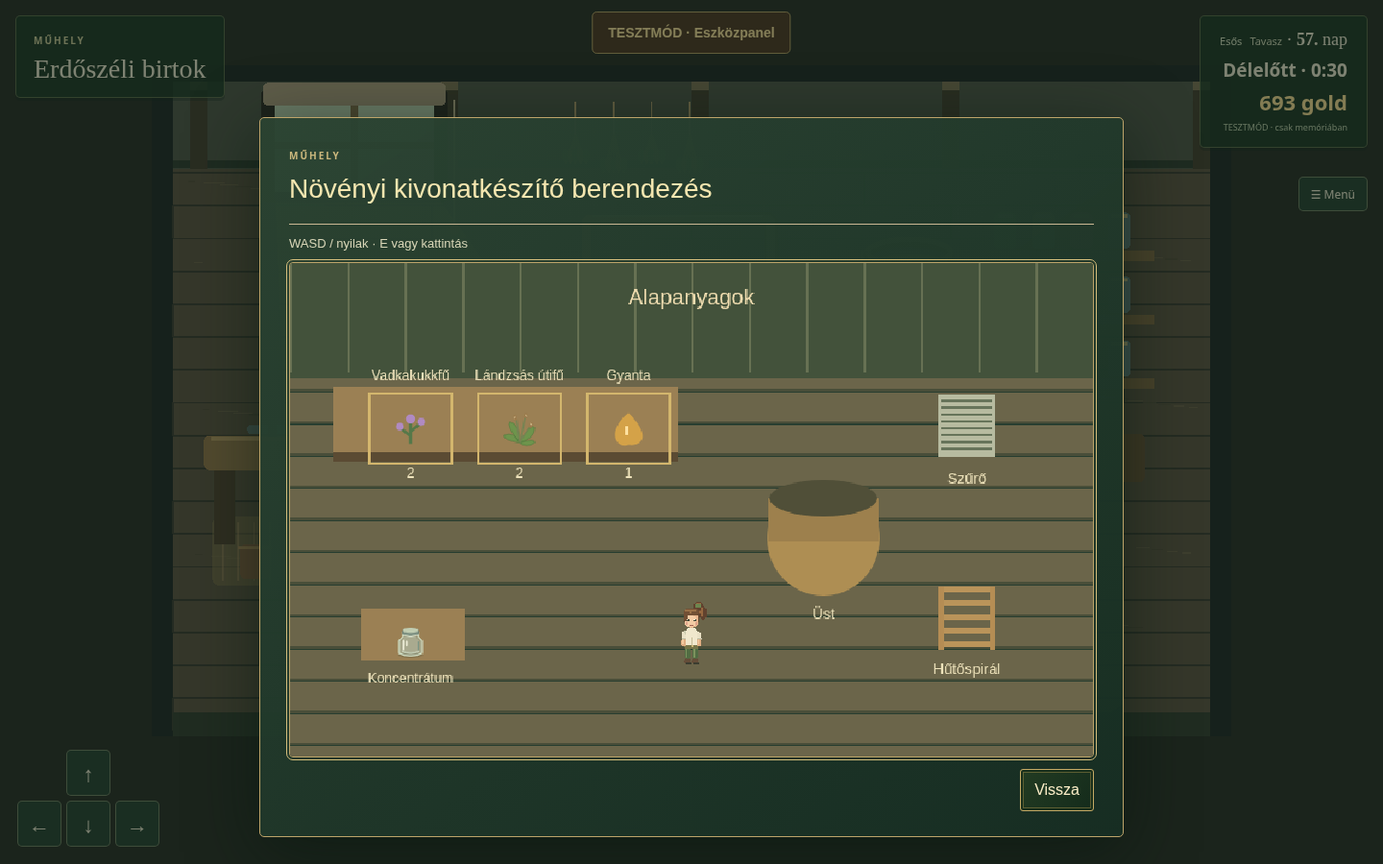
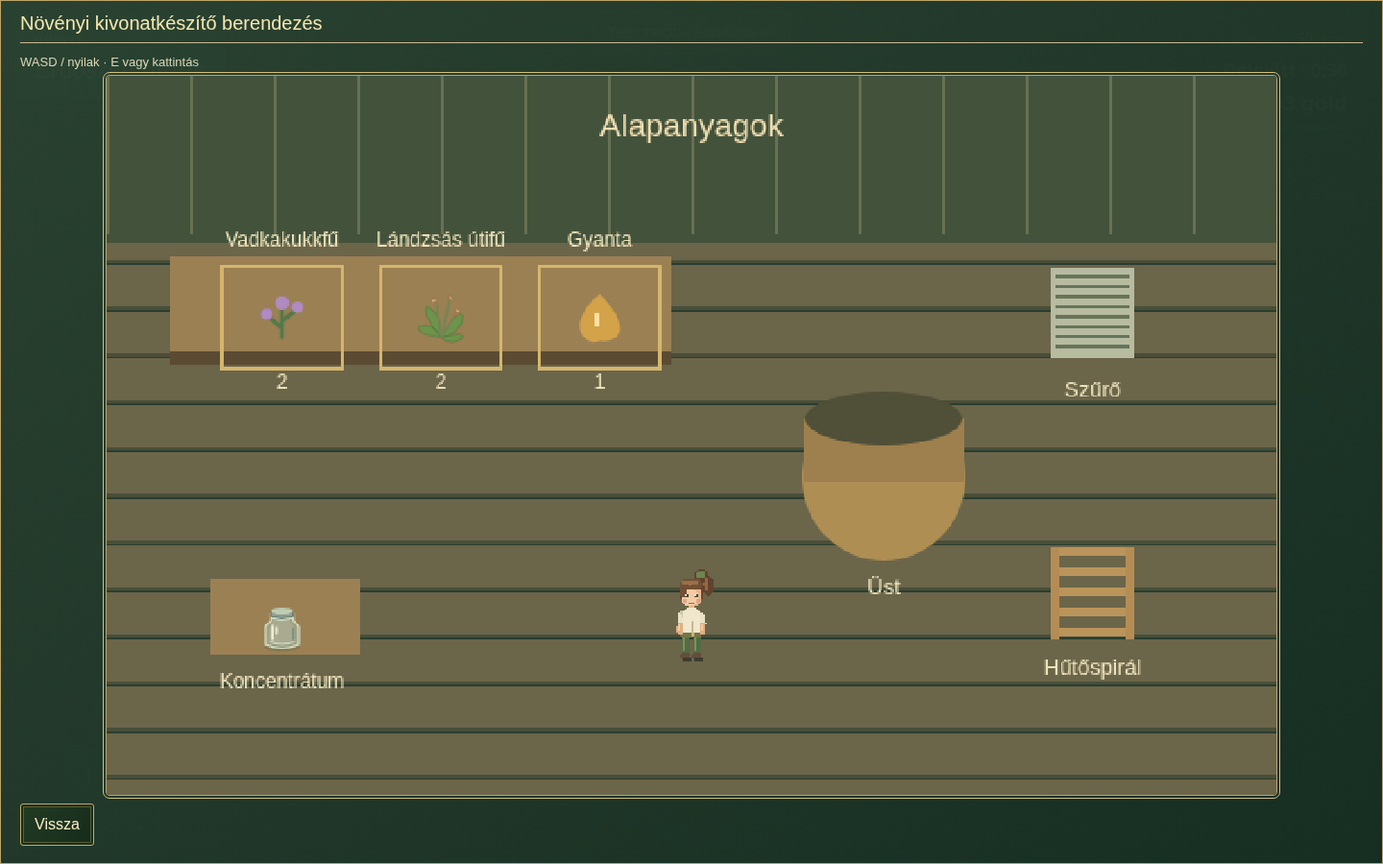
Refine Noah forest encounters, food feedback and extraction presentation

diff --git a/src/main.ts b/src/main.ts
@@ -19,7 +19,7 @@ import {drawCrafting,drawIrrigationArcs,drawMachineActivity,machineActivityPanel
 import {junkSites,junkPoint,junkProgress,junkWorkPoint,junkTool,junkAt,junkBlocks,strikeJunk,prepareJunkSites,type JunkId} from './junk-sites';
 import {drawJunkSites,updateJunkIndicators} from './junk-art';
 import {natureSites,natureReady} from './nature-resources';
-import {consumeBerry} from './food';
+import {consumeBerry,berryFoods,type BerryFood} from './food';
 import {storyEndPending} from './travel';
 import {MicroscopePanel} from './microscope-panel';
 import {createMicroscopy,type SampleId} from './microscopy';
@@ -592,7 +592,7 @@ class Farm extends Phaser.Scene {
  }
  private hurtNoah(){
   const f=this.travel.forest!;f.health=(f.health??5)-1;this.cameras.main.shake(110,.003);
-  if(f.health<=0){f.health=5;this.noahTest?.forest.reset();this.actor.setPosition(START.x,START.y);this.fitCamera();showDialogue('Itthon biztonságban','Az erdei kaland most túl sok volt. Minden holmim és aranyam megmaradt.','SAM');return false;}return true;
+  if(f.health<=0){f.health=5;this.noahTest?.forest.reset();this.actor.setPosition(START.x,START.y);this.fitCamera();showDialogue('Itthon biztonságban','Az erdei kaland most túl sok volt. Minden holmim és aranyam megmaradt.\n\nTalán legközelebb vihetnék magammal némi élelmet…','SAM');return false;}return true;
  }
  private sinkNoah(point:{x:number;y:number}){
   if(this.transitioning)return;this.transitioning=true;document.querySelector<HTMLElement>('#game')!.dataset.noahSinking='true';this.avatar.cancelWork();this.jumpRemaining=0;release();
@@ -606,10 +606,10 @@ class Farm extends Phaser.Scene {
   if(inside&&f.stick&&!this.forestEquipped&&!this.avatar.isWorking()){this.selectTool('stick');this.forestEquipped=true;}else if(!inside&&this.forestEquipped){this.avatar.equip(this.tool==='wildflower'?'radish':this.tool);this.forestEquipped=false;}
   const hud=document.querySelector<HTMLElement>('#forest-health')!;hud.hidden=!inside||dialogue.open;if(inside){const label=`${'♥'.repeat(this.forestCombat.health)}${'♡'.repeat(5-this.forestCombat.health)}`;if(hud.textContent!==label)hud.textContent=label;hud.setAttribute('aria-label',`${this.forestCombat.health} / 5 életerő`);}
   if(inside&&f.stick&&!f.sample&&!f.enemyIntroSeen&&this.actor.x< -560&&performance.now()>this.forestIntroRetryAt&&this.canInteract()){this.forestIntroRetryAt=performance.now()+5000;const next=structuredClone(f);next.enemyIntroSeen=true;void this.commitForest(next,()=>this.showForestEnemies());return;}
-  this.forestCombat.update(dt,this.actor,f,this.jumpRemaining>0,()=>{f.health=Math.max(1,this.forestCombat!.health);this.cameras.main.shake(110,.002);if(this.forestCombat!.health<=0&&!this.forestSaving){const next=this.currentSnapshot();next.player={...START};next.travel.forest!.health=5;void this.commitChest(next,()=>{this.actor.setPosition(START.x,START.y);this.forestCombat!.reset();this.fitCamera();showDialogue('Itthon biztonságban','Az erdei kaland most túl sok volt. Sikerült hazavergődnöm; minden holmim és aranyam megmaradt.','SAM');});}});
+  this.forestCombat.update(dt,this.actor,f,this.jumpRemaining>0,()=>{f.health=Math.max(1,this.forestCombat!.health);this.cameras.main.shake(110,.002);if(this.forestCombat!.health<=0&&!this.forestSaving){const next=this.currentSnapshot();next.player={...START};next.travel.forest!.health=5;void this.commitChest(next,()=>{this.actor.setPosition(START.x,START.y);this.forestCombat!.reset();this.fitCamera();showDialogue('Itthon biztonságban','Az erdei kaland most túl sok volt. Sikerült hazavergődnöm; minden holmim és aranyam megmaradt.\n\nTalán legközelebb vihetnék magammal némi élelmet…','SAM');});}});
   const game=document.querySelector<HTMLElement>('#game')!;game.dataset.forestHealth=String(this.forestCombat.health);game.dataset.forestDefeated=String(encounterDefeated(f).length);game.dataset.forestSample=String(f.sample);game.dataset.forestExamined=String(f.examined);game.dataset.forestSent=String(f.sent);
  }
- private async eatBerry(crop:'strawberry'|'honeyberry'|'blueberry'){
+ private async eatBerry(crop:BerryFood){
   if(this.transitioning||performance.now()<this.eatingUntil||this.garden.produce[crop]<1)return;
   const health=this.travel.forest?.health??5;if(health>=5)return;
   const next=consumeBerry(this.currentSnapshot(),crop);if(!next)return;
@@ -738,7 +738,7 @@ class Farm extends Phaser.Scene {
   summary.replaceChildren();const capacity=document.createElement('strong');capacity.textContent=`${Math.max(0,16-used)} szabad rekesz`;const occupied=document.createElement('span');occupied.textContent=`${used} / 16 foglalt`;summary.append(capacity,occupied);grid.replaceChildren();free.replaceChildren();document.querySelector('#inventory-extra-actions')!.replaceChildren();
   const addAction=(card:HTMLElement,label:string,action:()=>void)=>{const button=document.createElement('button');button.type='button';button.textContent=label;button.onclick=action;card.append(button);return button;};
   for(const {key,count}of stacks){const [group,id]=key.split(':'),card=document.createElement('div');card.className='inventory-card backpack-slot';card.dataset.stackKey=key;const label=document.createElement('span');label.className='backpack-item-name';label.textContent=group==='packed'?'Tárolóláda':this.chestItemName(key);const amount=document.createElement('strong');amount.className='stack-count';amount.textContent=String(count);card.append(group==='packed'?itemIcon('chest'):this.chestItemIcon(key),label,amount);
-   if(group==='crop'){card.dataset.inventoryCrop=id;if((this.travel.forest?.health??5)<5&&['strawberry','honeyberry','blueberry'].includes(id)){const eat=addAction(card,'Eszem',()=>void this.eatBerry(id as 'strawberry'|'honeyberry'|'blueberry'));eat.dataset.eat=id;}}
+   if(group==='crop'){card.dataset.inventoryCrop=id;if((this.travel.forest?.health??5)<5&&(berryFoods as readonly string[]).includes(id)){const eat=addAction(card,'Eszem',()=>void this.eatBerry(id as BerryFood));eat.dataset.eat=id;}}
    if(group==='seed'){card.dataset.inventorySeed=id;card.tabIndex=0;card.setAttribute('role','button');card.setAttribute('aria-label',`${label.textContent} kézbevétele`);const select=()=>{dialogue.close();this.selectTool(id as Tool);};card.onclick=select;card.onkeydown=e=>{if(e.key==='Enter'||e.code==='Space'){e.preventDefault();e.stopPropagation();select();}};}
 
    if(group==='good'&&id==='reed')addAction(card,'Levágom',()=>{const next=cutCarriedReed(this.currentSnapshot());if(next)void this.commitChest(next,()=>this.openInventory());});
@@ -776,9 +776,8 @@ class Farm extends Phaser.Scene {
  }
  private drawMailFlag(){
   if(!this.mailFlag)return;this.mailFlag.clear();const m=farmLayout.mailbox;
-  if(quantityTotal(this.orders.mailbox)>0){this.mailFlag.fillStyle(0xe7b55a);this.mailFlag.fillRect(m.x+m.w-3,m.y-10,3,13);this.mailFlag.fillRect(m.x+m.w,m.y-10,8,5);}
   const unread=Boolean(this.noahTest?.hasUnreadLetter(this.clock.day));document.querySelector<HTMLElement>('#game')!.dataset.noahUnreadMail=String(unread);
-  if(unread){const g=this.mailFlag,x=m.x+m.w/2,y=m.y-29;g.lineStyle(2,0xf5d689,.45+.15*Math.sin(this.time.now/400)).strokeCircle(x,y,17);g.fillStyle(0xf4e8c4).fillRoundedRect(x-12,y-8,24,16,2);g.lineStyle(1.5,0x846e49).strokePoints([{x:x-11,y:y-7},{x,y:y+1},{x:x+11,y:y-7}]);g.fillStyle(0xa66b54).fillCircle(x,y+2,2.5);}
+  if(quantityTotal(this.orders.mailbox)>0||unread){this.mailFlag.fillStyle(0xe7b55a);this.mailFlag.fillRect(m.x+m.w-3,m.y-10,3,13);this.mailFlag.fillRect(m.x+m.w,m.y-10,8,5);}
  }
  private nearObject(area:{x:number;y:number;w:number;h:number},distance=55){return Math.hypot(this.actor.x-area.x-area.w/2,this.actor.y-area.y-area.h/2)<=distance;}
  private async gatherForage(id:string){
@@ -1204,7 +1203,7 @@ class Farm extends Phaser.Scene {
   const noahSection=document.createElement('section');noahSection.className='noah-test-picker';
   const noahTitle=document.createElement('h3');noahTitle.textContent='Noah küldeménye – erdei kísérlet';
   const checkpoint=document.createElement('select');checkpoint.id='noah-test-checkpoint';checkpoint.setAttribute('aria-label','A teszt kezdőpontja');
-  for(const [value,label]of [['letter','Teljes folyamat · Noah válaszának napja'],['waiting','Indítás a minta elküldése után'],['simon','Indítás Simonnál'],['forest','Indítás a patakhídnál'],['marsh','Indítás a mocsári átkelőnél'],['mix','Indítás a kivonatkészítés előtt']])checkpoint.add(new Option(label,value));
+  for(const [value,label]of [['letter','Teljes folyamat · Noah válaszának napja'],['waiting','Indítás a minta elküldése után'],['simon','Indítás Simonnál'],['forest','Indítás a patakhídnál'],['marsh','Indítás a mocsári átkelőnél'],['root','Indítás a gyökércsomónál · este'],['mix','Indítás a kivonatkészítés előtt']])checkpoint.add(new Option(label,value));
   const start=document.createElement('button');start.type='button';start.id='start-noah-test';start.textContent='Teszt indítása';start.onclick=()=>{start.disabled=true;void this.startNoahTest(checkpoint.value as NoahCheckpoint,noahTestConfig).finally(()=>{start.disabled=false;});};
   noahSection.append(noahTitle,checkpoint,start);panel.append(noahSection);
   if(this.noahTest){const nextMorning=document.createElement('button');nextMorning.type='button';nextMorning.id='noah-next-morning';nextMorning.textContent='Következő reggel';nextMorning.onclick=()=>{if(this.transitioning)return;dialogue.close();void this.finishDay(false);};panel.append(nextMorning);}
@@ -1553,7 +1552,7 @@ class Farm extends Phaser.Scene {
   const before={x:this.actor.x,y:this.actor.y};const rocks=activeDebris(this.clearing,this.garden).filter(d=>d.kind==='rock');
   const rockBlocked=(x:number,y:number)=>rocks.some(r=>{const radiusX=r.scale*17+6,radiusY=r.scale*12+3;const old=((before.x-r.x)/radiusX)**2+((before.y-r.y)/radiusY)**2,now=((x-r.x)/radiusX)**2+((y-r.y)/radiusY)**2;return now<1&&(old>=1||now<=old);});
   this.updateForest(Math.min(seconds,.05));
-  if(this.noahTest){const t=this.noahTest;t.forest.update(Math.min(seconds,.05),this.actor,t.state,this.jumpRemaining>0,()=>{this.hurtNoah();},point=>this.sinkNoah(point),this.clock.day);if(inNoahSouth(this.actor.x,this.actor.y)){this.avatar.equip('stick');const health=this.travel.forest?.health??5;const hud=document.querySelector<HTMLElement>('#forest-health')!;hud.hidden=false;hud.textContent='♥'.repeat(health)+'♡'.repeat(5-health);}}
+  if(this.noahTest){const t=this.noahTest;t.forest.update(Math.min(seconds,.05),this.actor,t.state,this.jumpRemaining>0,()=>{this.hurtNoah();},point=>this.sinkNoah(point),this.clock.day,nightOpacity(this.clock));if(inNoahSouth(this.actor.x,this.actor.y)){this.avatar.equip('stick');const health=this.travel.forest?.health??5;const hud=document.querySelector<HTMLElement>('#forest-health')!;hud.hidden=false;hud.textContent='♥'.repeat(health)+'♡'.repeat(5-health);}}
   if(this.transitioning||this.actor.x!==before.x||this.actor.y!==before.y)return;
   const next=move(before.x,before.y,dx,dy,seconds,movementSpeed(this.jumpRemaining>0,movementInput.running),(x,y)=>(!this.noahTest?.state.upgraded&&closedSouthEntry(x,y,before))||this.skill.chests?.placed.some(c=>{const d=((x-c.x)/23)**2+((y-c.y)/15)**2,old=((before.x-c.x)/23)**2+((before.y-c.y)/15)**2;return d<1&&(old>=1||d<=old);})||this.forestCombat?.blocks(x,y,this.travel.forest??createForest())||(!junkBlocks(this.clearing,before.x,before.y)&&junkBlocks(this.clearing,x,y))||this.travel.crafting?.machines.some(m=>Math.hypot(m.x-x,m.y-y)<11&&Math.hypot(m.x-before.x,m.y-before.y)>=11)||rockBlocked(x,y)||this.travel.estate.trees.some(t=>Math.hypot(x-t.x,y-t.y)<12)||this.travel.estate.pond.some(p=>p.kind==='duckNest'&&Math.hypot(x-p.x,y-p.y)<12),(x,y)=>this.noahTest?(southBlocked(x,y,this.noahTest.state)??worldBlocked(x,y)):worldBlocked(x,y));this.actor.setPosition(next.x,next.y);
   surface.dataset.cleared=String(Object.keys(this.clearing.removed).length);surface.dataset.wood=String(this.clearing.wood);surface.dataset.stone=String(this.clearing.stone);surface.dataset.running=String(movementInput.running);surface.dataset.jumpHeight=String(height);
@@ -1595,7 +1594,7 @@ class Farm extends Phaser.Scene {
   if(!this.nearby&&this.actor.y<600){const site=junkSites.filter(s=>{const p=junkPoint(this.clearing,s.id);return Math.hypot(p.x-this.actor.x,p.y-this.actor.y)<105;}).sort((a,b)=>{const aa=junkPoint(this.clearing,a.id),bb=junkPoint(this.clearing,b.id);return Math.hypot(aa.x-this.actor.x,aa.y-this.actor.y)-Math.hypot(bb.x-this.actor.x,bb.y-this.actor.y);})[0];if(site)this.nearby=`junk:${site.id}`;}
   this.nearby=this.forestNearby()|| (this.nearChest()>=0?'storage-chest':this.researchNearby()||this.nearby);
   this.bubble.setPosition(next.x,next.y-54).setText(estateReady?'…':this.nearby==='shed'?'?':this.nearby?'…':'').setVisible(Boolean(this.nearby||estateReady)&&!this.nearby.startsWith('junk:')&&this.jumpRemaining<=0);
-  document.querySelector('#status')!.textContent=(inForest(next.x,next.y)?this.forestCombat?.encounterName(this.actor,this.travel.forest??createForest()):'')||this.researchHint()|| (this.nearby==='village-notice'?'Hirdetőtábla · E / kattintás':this.nearby==='craft-machine'?`${blueprintNames[this.travel.crafting!.machines[this.nearMachine()].kind as Blueprint]??'Nádkosár'} · E`:estateReady?'Begyűjthető · E / F / Gyűjtés':this.nearby.startsWith('nature:')?'Gyűjtögetés · E / F':this.nearby.startsWith('junk:')?`${junkSites.find(s=>s.id===this.nearby.slice(5))?.name} · ${Math.min(3,junkProgress(this.clearing,this.nearby.slice(5) as JunkId,this.clock.day).part)+1} / 4 · Bontás: E / kattintás`:this.nearby==='leaveShop'?'Vissza a térre · E / koppintás':this.nearby==='merchant'?`${insideShop==='nursery'?'Leo':insideShop==='craftShop'?'Simon':'Annie'} · Beszélgetés · E / koppintás`:this.nearby==='shopCounter'?'Pult · E / koppintás':nearbyBush?(forageReady(this.travel,nearbyBush.id,this.clock.day)?'Erdei áfonya · E / F / koppintás':'Áfonyabokor · most pihen'):this.nearby==='nursery'||this.nearby==='fishShop'||this.nearby==='craftShop'?`${shopNames[this.nearby]} · ${shopsOpen(this.clock.elapsed)?'E / koppintás':'Zárva · reggel nyit'}`:this.nearby==='bench'?'Pihenőpad · E / koppintás':this.nearby==='neighbor'?'Szomszéd · E / kattintás':this.nearby==='shed'?'?':this.nearby==='catalog'?'Magkatalógus · E / kattintás':this.nearby==='mailbox'?`Postaláda${quantityTotal(this.orders.mailbox)>0?' · Csomag érkezett':''} · E / kattintás`:this.nearby==='shipping'?'Eladóláda · E / koppints a ládára':this.nearby==='home-exit'?'Vissza a verandára · E':this.nearby.startsWith('home:')?'Megvizsgálom · E':this.nearby==='journal'?'Napló · E':this.nearby==='house'?'Otthon · Belépés · E':this.nearby==='pond'?'Tópart · E / koppints a buborékra':'');
+  document.querySelector('#status')!.textContent=(inForest(next.x,next.y)?this.forestCombat?.encounterName(this.actor,this.travel.forest??createForest()):'')||this.researchHint()|| (this.nearby==='village-notice'?'Hirdetőtábla · E / kattintás':this.nearby==='craft-machine'?`${blueprintNames[this.travel.crafting!.machines[this.nearMachine()].kind as Blueprint]??'Nádkosár'} · E`:estateReady?'Begyűjthető · E / F / Gyűjtés':this.nearby.startsWith('nature:')?'Gyűjtögetés · E / F':this.nearby.startsWith('junk:')?`${junkSites.find(s=>s.id===this.nearby.slice(5))?.name} · ${Math.min(3,junkProgress(this.clearing,this.nearby.slice(5) as JunkId,this.clock.day).part)+1} / 4 · Bontás: E / kattintás`:this.nearby==='leaveShop'?'Vissza a térre · E / koppintás':this.nearby==='merchant'?`${insideShop==='nursery'?'Leo':insideShop==='craftShop'?'Simon':'Annie'} · Beszélgetés · E / koppintás`:this.nearby==='shopCounter'?'Pult · E / koppintás':nearbyBush?(forageReady(this.travel,nearbyBush.id,this.clock.day)?'Erdei áfonya · E / F / koppintás':'Áfonyabokor · most pihen'):this.nearby==='nursery'||this.nearby==='fishShop'||this.nearby==='craftShop'?`${shopNames[this.nearby]} · ${shopsOpen(this.clock.elapsed)?'E / koppintás':'Zárva · reggel nyit'}`:this.nearby==='bench'?'Pihenőpad · E / koppintás':this.nearby==='neighbor'?'Szomszéd · E / kattintás':this.nearby==='shed'?'?':this.nearby==='catalog'?'Magkatalógus · E / kattintás':this.nearby==='mailbox'?`Postaláda${quantityTotal(this.orders.mailbox)>0||this.noahTest?.hasUnreadLetter(this.clock.day)?' · Küldemény érkezett':''} · E / kattintás`:this.nearby==='shipping'?'Eladóláda · E / koppints a ládára':this.nearby==='home-exit'?'Vissza a verandára · E':this.nearby.startsWith('home:')?'Megvizsgálom · E':this.nearby==='journal'?'Napló · E':this.nearby==='house'?'Otthon · Belépés · E':this.nearby==='pond'?'Tópart · E / koppints a buborékra':'');
  }
 }
 new Phaser.Game({type:Phaser.AUTO,parent:'game',width:800,height:600,pixelArt:true,backgroundColor:'#8da85e',scene:Farm,scale:{mode:Phaser.Scale.RESIZE,autoCenter:Phaser.Scale.CENTER_BOTH},input:{keyboard:true}});

diff --git a/src/noah-south-forest.ts b/src/noah-south-forest.ts
@@ -4,6 +4,7 @@ import {createForest} from './forest';
 import {drawForestHerb} from './forest-art';
 import {southRoute,southPath,distanceToSouthPath,swampAt,swampStones,swampStep,southHerbs} from './south-forest-layout';
 import {drawWoodlandTree} from './woodland-tree';
+import {rootStrike,rootStrikePose,ROOT_STRIKE_COUNT,ROOT_STRIKE_INTERVAL,ROOT_STRIKE_DURATION} from './root-strikes';
 import type {NoahTestState} from './noah-test-story';
 export const resinTree={x:-805,y:2770};
 export const southRoot={x:-650,y:2500};
@@ -17,17 +18,19 @@ export function southBlocked(x:number,y:number,state:NoahTestState){
  if(y>2475&&!state.rootDefeated)return true;
  return distanceToSouthPath(x,y)>(swampAt(x,y)?165:94);
 }
+const southEnemies=[{id:'vine',kind:'vine' as const,x:-325,y:1490,hp:3},{id:'spore-a',kind:'spore' as const,x:-665,y:1680,hp:2},{id:'spore-b',kind:'spore' as const,x:-555,y:1850,hp:2},{id:'vine-bramble',kind:'vine' as const,x:-360,y:1950,hp:3},{id:'spore-c',kind:'spore' as const,x:-570,y:2385,hp:2},{id:'vine-larch',kind:'vine' as const,x:-750,y:2670,hp:3},{id:'spore-d',kind:'spore' as const,x:-830,y:2820,hp:2}];
+const mushrooms=[{x:-380,y:1450,s:1.1},{x:-590,y:1580,s:1.5},{x:-755,y:1790,s:1.3},{x:-570,y:1930,s:1.7},{x:-335,y:2220,s:1.2},{x:-620,y:2390,s:1.6},{x:-800,y:2580,s:1.8},{x:-725,y:2760,s:1.2}];
 export class NoahSouthForest{
- private terrain:Phaser.GameObjects.Graphics;private art:Phaser.GameObjects.Graphics;
+ private terrain:Phaser.GameObjects.Graphics;private art:Phaser.GameObjects.Graphics;private fungi:Phaser.GameObjects.Graphics;private swampSeen=false;private struck=new Set<number>();
  private lastSafe={x:-444,y:2000};private herbs:Phaser.GameObjects.Graphics;
  private label:Phaser.GameObjects.Text;private minorCombat:ForestCombat;private minorState={...createForest(),stick:true};
- get minorRemaining(){return 2-this.minorState.defeated.length;}
- setUnlocked(value:boolean){this.terrain.setVisible(value);this.art.setVisible(value);this.herbs.setVisible(value);}
+ get minorRemaining(){return southEnemies.length-this.minorState.defeated.length;}
+ setUnlocked(value:boolean){this.terrain.setVisible(value);this.art.setVisible(value);this.herbs.setVisible(value);this.fungi.setVisible(value);}
  get phaseName(){return this.phase;}
  get hitPoints(){return this.hp;}
  private age=0;private timer=1.4;private phase:'rest'|'warn'|'strike'='rest';private hp=6;private invulnerable=0;private swing=0;private aim={x:0,y:-1};
  constructor(private scene:Phaser.Scene){
-  this.minorCombat=new ForestCombat(scene,[{id:'vine',kind:'vine',x:-325,y:1490,hp:3},{id:'spore-a',kind:'spore',x:-665,y:1680,hp:2}],inNoahSouth);this.terrain=scene.add.graphics().setDepth(-.4).setVisible(false);this.art=scene.add.graphics().setDepth(91);this.herbs=scene.add.graphics().setDepth(2);this.label=scene.add.text(southRoot.x+122,southRoot.y-78,'Gombával átszőtt gyökércsomó',{fontFamily:'sans-serif',fontSize:'11px',color:'#f1dfb9',stroke:'#263c2b',strokeThickness:3}).setOrigin(.5).setDepth(93);const g=this.terrain;
+  this.minorCombat=new ForestCombat(scene,southEnemies,inNoahSouth);this.terrain=scene.add.graphics().setDepth(-.4).setVisible(false);this.art=scene.add.graphics().setDepth(91);this.herbs=scene.add.graphics().setDepth(2);this.fungi=scene.add.graphics().setDepth(92);this.label=scene.add.text(southRoot.x+122,southRoot.y-78,'Gombával átszőtt gyökércsomó',{fontFamily:'sans-serif',fontSize:'11px',color:'#f1dfb9',stroke:'#263c2b',strokeThickness:3}).setOrigin(.5).setDepth(93);const g=this.terrain;
   // Match the existing meadow and blend the northern edge without a straight seam.
   g.fillStyle(0x759c48).fillRect(-1120,1510,1120,1440);
   for(let y=1320;y<1540;y+=10)for(let x=-1120;x<0;x+=17){const n=Math.abs(Math.sin(x*12.23+y*4.71));g.fillStyle(0x759c48,Math.min(1,(y-1320)/180)).fillRect(x,y,18,12);}
@@ -59,29 +62,57 @@ export class NoahSouthForest{
   this.hp-=upgraded?2:1;this.timer=Math.max(this.timer,.7);this.scene.cameras.main.shake(70,.0015);
   if(this.hp<=0)state.rootDefeated=true;return true;
  }
- update(dt:number,player:{x:number;y:number},state:NoahTestState,jumping:boolean,hurt:()=>void,fall?:(point:{x:number;y:number})=>void,day=1){
+ update(dt:number,player:{x:number;y:number},state:NoahTestState,jumping:boolean,hurt:()=>void,fall?:(point:{x:number;y:number})=>void,day=1,night=0){
   this.label.setVisible(inNoahSouth(player.x,player.y)&&!state.rootDefeated&&Math.hypot(player.x-southRoot.x,player.y-southRoot.y)<210);this.age+=dt;this.invulnerable=Math.max(0,this.invulnerable-dt);this.swing=Math.max(0,this.swing-dt);const g=this.art;g.clear();
   if(!state.ingredientGathered){const x=resinTree.x,y=resinTree.y;for(let i=0;i<4;i++){const yy=y-57+i*11+Math.sin(this.age*.8+i)*1.4;g.fillStyle(0xbf7c2d).fillEllipse(x+i%2*5-3,yy,7,11);g.fillStyle(0xe9b751).fillEllipse(x+i%2*5-4,yy-1,4,8);g.fillStyle(0xffdf9a).fillEllipse(x+i%2*5-5,yy-3,1.5,3);}}
 
+  this.drawMushrooms(night);
+  if(state.upgraded&&inNoahSouth(player.x,player.y)&&Math.hypot(player.x+444,player.y-2000)<110&&!this.swampSeen){this.swampSeen=true;this.scene.events.emit('noah-swamp-arrival');}
   this.herbs.clear();if(state.upgraded)for(const p of southHerbs){if(state.herbsPicked[p.id]!==undefined&&day-state.herbsPicked[p.id]<3)continue;drawForestHerb(this.herbs,p);}
   if(inNoahSouth(player.x,player.y)){const step=swampStep(player,jumping,this.lastSafe);this.lastSafe=step.safe;if(step.fall){fall?.(this.lastSafe);return;}}
   // Thin drifting mist and small bubbles make the marsh feel alive.
   if(state.upgraded)for(let i=0;i<10;i++){const x=-610+(i*39+this.age*5)%260,y=2090+i%4*35;g.fillStyle(0xc9d5b6,.035).fillEllipse(x,y,90,11);}
+  if(state.upgraded)for(let i=0;i<22;i++){
+   const x=-620+(i*71%285),y=2040+(i*47%238);if(!swampAt(x,y)||swampStones.some(p=>Math.hypot(p.x-x,p.y-y)<31))continue;
+   const t=(this.age*.5+i*.173)%1,r=2+Math.sin(Math.min(1,t/.72)*Math.PI/2)*(3+i%4);
+   if(t<.72){g.fillStyle(0x795838,.65).fillEllipse(x,y-t*4,r*2,r*1.3);g.lineStyle(1,0xb08d57,.7).strokeEllipse(x-1,y-t*4,r*1.7,r);g.fillStyle(0xc4a571,.65).fillEllipse(x-r*.25,y-t*4-r*.2,2,1);}
+   else{const pop=(t-.72)/.28;g.lineStyle(1,0x9b7950,1-pop).strokeEllipse(x,y-2,12+pop*14,5+pop*5);for(let j=0;j<3;j++)g.fillStyle(0x8d6a45,1-pop).fillCircle(x+(j-1)*pop*10,y-2-Math.sin(pop*Math.PI)*(5+j),1.2);}
+  }
   this.minorCombat.update(dt,player,this.minorState,jumping,hurt);
   if(!inNoahSouth(player.x,player.y)||state.rootDefeated)return;
   const {x,y}=southRoot,d=Math.hypot(player.x-x,player.y-y);this.timer-=dt;
-  if(this.timer<=0){if(this.phase==='rest'&&d<220){this.phase='warn';this.timer=1;this.aim={x:(player.x-x)/(d||1),y:(player.y-y)/(d||1)};}else if(this.phase==='warn'){this.phase='strike';this.timer=.35;}else{this.phase='rest';this.timer=1.65;}}
+  if(this.timer<=0){if(this.phase==='rest'&&d<220){this.phase='warn';this.timer=1;this.aim={x:(player.x-x)/(d||1),y:(player.y-y)/(d||1)};}else if(this.phase==='warn'){this.phase='strike';this.timer=ROOT_STRIKE_DURATION;this.struck.clear();}else{this.phase='rest';this.timer=1.65;}}
   g.fillStyle(0x172f24,.4).fillEllipse(x,y+12,130,42);
-  for(let i=0;i<9;i++){const a=i*Math.PI*2/9,stretch=this.phase==='strike'?125:55+Math.sin(this.age*2+i)*4;const xx=x+Math.cos(a)*stretch,yy=y+Math.sin(a)*stretch*.6;
-   g.lineStyle(9,0x433e2c).strokePoints([{x,y:y-12},{x:x+Math.cos(a)*35,y:y-48},{x:xx,y:yy}]);g.lineStyle(2,0x9c9870).lineBetween(x+Math.cos(a)*35,y-44,xx,yy-3);
-   g.fillStyle(0xd2c5a0).fillTriangle(xx-4,yy,xx,yy-16,xx+4,yy);}
+  const elapsed=ROOT_STRIKE_DURATION-this.timer;
+  for(let i=0;i<ROOT_STRIKE_COUNT;i++){
+   const tip=rootStrike(i,this.aim,southRoot),pose=rootStrikePose(elapsed,i),striking=this.phase==='strike',angle=i*Math.PI*2/ROOT_STRIKE_COUNT;
+   const end=striking?tip:{x:x+Math.cos(angle)*58,y:y+Math.sin(angle)*36};
+   const lifted=striking?pose.active?(1-pose.drop)*65:pose.impact?0:30:12;
+   const extension=striking?(pose.active||pose.impact?1:.32):1,xx=x+(end.x-x)*extension,yy=y+(end.y-y)*extension;
+   g.lineStyle(9,0x433e2c).strokePoints([{x,y:y-12},{x:x+(xx-x)*.45,y:y-45-lifted},{x:xx,y:yy-lifted}]);g.lineStyle(2,0x9c9870).lineBetween(x+(xx-x)*.45,y-42-lifted,xx,yy-lifted-3);
+   g.fillStyle(0xd2c5a0).fillTriangle(xx-4,yy-lifted,xx,yy-lifted-16,xx+4,yy-lifted);
+   if(this.phase==='warn'){g.lineStyle(1.5,0xe1b175,.65).strokeEllipse(tip.x,tip.y,54,24);}
+   if(striking&&pose.impact){
+    const age=elapsed-(i+.6)*ROOT_STRIKE_INTERVAL;
+    if(!this.struck.has(i)){this.struck.add(i);this.scene.cameras.main.shake(65,.001);if(!jumping&&Math.hypot(player.x-tip.x,player.y-tip.y)<38&&this.invulnerable===0){this.invulnerable=1.3;hurt();}}
+    if(age<.85)for(let j=0;j<8;j++){const a=j*2.4,r=7+age*25;g.fillStyle(j%2?0xa89a75:0x716449,(1-age/.85)*.6).fillEllipse(tip.x+Math.cos(a)*r,tip.y+Math.sin(a)*r*.4-age*13,7+age*10,4+age*6);}
+   }
+  }
   g.fillStyle(0x4e4d36).fillEllipse(x,y-13,76,61);g.fillStyle(0x777b58).fillEllipse(x-10,y-27,49,40);
   for(let i=0;i<11;i++){g.lineStyle(1,0xcbc9a9,.6).lineBetween(x-28+i*5,y-29+(i%3)*6,x-25+i*5,y+4);}
   if(this.phase==='warn'){g.lineStyle(2,0xe1b175,.8).strokeEllipse(x,y,240,135);g.fillStyle(0xf0bd69).fillEllipse(x-13,y-27,8,4).fillEllipse(x+13,y-27,8,4);}
-  if(this.phase==='strike'&&!jumping&&d<125&&this.invulnerable===0){this.invulnerable=1.3;hurt();}
   g.fillStyle(0x26382a).fillRoundedRect(x-30,y-66,60,5,2);g.fillStyle(0xc6c18a).fillRoundedRect(x-30,y-66,60*Math.max(0,this.hp)/6,5,2);
   for(let i=0;i<9;i++){const a=this.age*.3+i*2.4;g.fillStyle(0xd1c8a0,.35).fillCircle(x+Math.sin(a)*78,y-40+Math.cos(a*1.4)*40,1);}
  }
  reset(){this.minorCombat.reset();this.minorState={...createForest(),stick:true};this.hp=6;this.phase='rest';this.timer=1.4;}
- destroy(){this.terrain.destroy();this.art.destroy();this.label.destroy();this.herbs.destroy();this.minorCombat.destroy();}
+ private drawMushrooms(night:number){
+  const g=this.fungi;g.clear();
+  for(const p of mushrooms){const {x,y,s}=p,pulse=.82+Math.sin(this.age*1.7+x)*.18;
+   if(night>0){for(let i=3;i>=1;i--)g.fillStyle(0xb293ee,night*.11*pulse).fillEllipse(x,y-25*s,(58+i*20)*s,(40+i*12)*s);}
+   g.fillStyle(0x263b30,.3).fillEllipse(x+4,y+4,40*s,10*s);g.fillStyle(0xa99aab).fillRoundedRect(x-6*s,y-36*s,12*s,38*s,4*s);g.fillStyle(0xc1b3c0).fillRect(x-4*s,y-30*s,3*s,30*s);
+   g.fillStyle(0x493952).fillEllipse(x,y-31*s,58*s,14*s);g.fillStyle(0x775781).fillEllipse(x,y-42*s,60*s,32*s);g.fillStyle(0x9975a2).fillEllipse(x-9*s,y-48*s,34*s,18*s);g.lineStyle(1.5*s,0xc2a6c9,.7).strokeEllipse(x,y-32*s,54*s,9*s);
+   for(let i=0;i<7;i++){const xx=x+Math.cos(i*2.4)*(10+i%3*5)*s,yy=y-43*s+Math.sin(i*2.4)*8*s;g.fillStyle(0xe4d6df).fillEllipse(xx,yy,(3+i%2)*s,3*s);if(night>0)g.fillStyle(0xe8cfff,Math.min(.8,night*1.5)*pulse).fillCircle(xx,yy,3*s);}
+  }
+ }
+ destroy(){this.fungi.destroy();this.terrain.destroy();this.art.destroy();this.label.destroy();this.herbs.destroy();this.minorCombat.destroy();}
 }

diff --git a/src/noah-test-controller.ts b/src/noah-test-controller.ts
@@ -9,8 +9,9 @@ import {noahLetter,noahGoal,noahReplyArrived,upgradeNoahStick,mixNoahExtract,typ
 import {NoahSouthForest,resinTree,inNoahSouth,southRoot} from './noah-south-forest';
 type Host={read:()=>Snapshot;commit:(s:Snapshot,after:()=>void)=>Promise<boolean>;show:(title:string,text:string,label?:string)=>void;notice:(text:string)=>void;gather?:(point:{x:number;y:number})=>void};
 export class NoahTestController{
+ private swampArrival=()=>this.host.show('Mocsár','Az iszap lassan bugyog a felszín alatt. Nem szeretnék belesüllyedni.','SAM');
  readonly forest:NoahSouthForest;private steam:Phaser.GameObjects.Graphics;private batch:{step:number}|null=null;private added=new Set<string>();private pendingResult=false;private busy=false;private lab:ReturnType<typeof createNoahLab>|null=null;private labAvatars:HTMLImageElement[]=[];private labPosition:LabPosition={x:350,y:350,carrying:null};
- constructor(scene:Phaser.Scene,public state:NoahTestState,readonly config:NoahTestConfig,private host:Host){this.forest=new NoahSouthForest(scene);this.steam=scene.add.graphics().setDepth(108);
+ constructor(private scene:Phaser.Scene,public state:NoahTestState,readonly config:NoahTestConfig,private host:Host){this.forest=new NoahSouthForest(scene);scene.events.on('noah-swamp-arrival',this.swampArrival);this.steam=scene.add.graphics().setDepth(108);
   for(let i=0;i<3;i++){const art=new FarmerArt(scene);art.equip('none');art.update(i>0,false,{x:0,y:1},.1+i*.08);const texture=scene.add.renderTexture(0,0,64,96);texture.draw(art.root,32,82);texture.setVisible(false);texture.snapshot(image=>{if(image instanceof HTMLImageElement)this.labAvatars[i]=image;texture.destroy();});art.root.destroy(true);}
  }
  updatePresentation(now:number){
@@ -36,7 +37,7 @@ export class NoahTestController{
   if(!this.state.simonAsked)return;
   const s=this.host.read(),c=this.config,card=document.createElement('article');card.className='shop-card';const text=document.createElement('div'),title=document.createElement('strong');title.textContent='Megerősített túrabot';const costs=document.createElement('p');costs.textContent=`Fa: ${s.clearing.wood} / ${c.wood} · Ócskavas: ${s.travel.research.materials.scrap} / ${c.scrap}`;text.append(title,costs);
   card.append(itemIcon('walkingStick'),text);
-  this.button(card,'noah-upgrade-stick',this.state.upgraded?'Megvásárolva':`${c.gold} gold · Megveszem`,()=>{const result=upgradeNoahStick(this.host.read(),this.state,c);if(!result||this.busy)return;this.busy=true;void this.host.commit(result.snapshot,()=>{this.state=result.state;refresh();this.host.notice('Megerősített túrabot');}).finally(()=>{this.busy=false;});},!upgradeNoahStick(s,this.state,c));panel.prepend(card);
+  this.button(card,'noah-upgrade-stick',this.state.upgraded?'Megvásárolva':`${c.gold} gold · Megveszem`,()=>{const result=upgradeNoahStick(this.host.read(),this.state,c);if(!result||this.busy)return;this.busy=true;void this.host.commit(result.snapshot,()=>{this.state=result.state;refresh();this.host.notice('Megerősített túrabot');}).finally(()=>{this.busy=false;});},!upgradeNoahStick(s,this.state,c));panel.append(card);
  }
  openMachine(){
   this.lab?.dispose();this.lab=null;
@@ -44,6 +45,7 @@ export class NoahTestController{
   if(this.state.complete){panel.textContent='A kísérlet eredménye megőrizve.';return;}
   if(this.pendingResult){panel.textContent='A kezelt minta vizsgálatra kész.';return;}
   if(!this.state.letter){panel.textContent='Az első kísérlethez még hiányzik valami.';return;}
+  document.querySelector<HTMLDialogElement>('#dialogue')!.dataset.presentation='noah-lab';
   const c=this.config;
   const hint=document.createElement('p');hint.className='noah-lab-controls';hint.textContent='WASD / nyilak · E vagy kattintás';panel.append(hint);
   this.lab=createNoahLab({avatars:this.labAvatars,position:this.labPosition,phase:()=>this.pendingResult?'done':this.batch?(['extract','filter','cool'] as const)[this.batch.step]:'load',added:this.added,ingredientName:c.ingredientName,counts:{thyme:c.thyme,plantain:c.plantain,ingredient:c.ingredient},available:id=>id==='ingredient'?this.state.ingredient>=c.ingredient:this.host.read().travel.estate.produce[id as 'thyme'|'plantain']>=c[id as 'thyme'|'plantain'],
@@ -67,12 +69,12 @@ export class NoahTestController{
   if(Math.hypot(player.x-resinTree.x,player.y-resinTree.y)>65)return false;
   if(!this.state.rootDefeated)return false;
   if(this.state.ingredientGathered){this.host.show('Vörösfenyő','A kifolyt gyantából már összegyűjtöttem egy adagot.','SAM');return true;}
-  this.host.show(this.config.ingredientName,'A vörösfenyő sérült kérgén aranyszínű gyantacseppek csillannak. A már kifolyt gyantából gyűjtök; a fát nem sebzem meg.','SAM');this.button(this.panel(),'noah-collect-ingredient','Összegyűjtöm',()=>{this.state.ingredientGathered=true;this.state.ingredient+=this.config.ingredient;this.host.show(this.config.ingredientName,'Ezt érdemes lesz kipróbálni.','SAM');});return true;
+  this.host.show(this.config.ingredientName,'A vörösfenyő sérült kérgén aranyszínű gyantacseppek csillannak. A már kifolyt gyantából gyűjtök; a fát nem sebzem meg.','SAM');this.button(this.panel(),'noah-collect-ingredient','Összegyűjtöm',()=>{this.state.ingredientGathered=true;this.state.ingredient+=this.config.ingredient;document.querySelector<HTMLDialogElement>('#dialogue')!.close();});return true;
  }
  statusPanel(panel:HTMLElement){
   const card=document.createElement('section');card.className='noah-test-items';const title=document.createElement('h3');title.textContent='Kísérleti anyagok';card.append(title);
   for(const [name,count]of [['Kísérleti koncentrátum',this.state.concentrate],[this.config.ingredientName,this.state.ingredient]] as const){if(!count)continue;const row=document.createElement('div');row.className='noah-test-item';const label=document.createElement('span');label.textContent=name;const amount=document.createElement('strong');amount.className='stack-count';amount.textContent=String(count);let icon:Element;if(name===this.config.ingredientName)icon=this.ingredientIcon();else{icon=itemIcon('glassJar');icon.classList.add('noah-concentrate-icon');}row.append(icon,label,amount);card.append(row);}panel.append(card);
  }
  private ingredientIcon(){const icon=document.createElement('span');icon.className='noah-resin-icon';icon.setAttribute('aria-hidden','true');return icon;}
- destroy(){this.lab?.dispose();this.forest.destroy();this.steam.destroy();}
+ destroy(){this.scene.events.off('noah-swamp-arrival',this.swampArrival);this.lab?.dispose();this.forest.destroy();this.steam.destroy();}
 }

diff --git a/src/noah-test-story.ts b/src/noah-test-story.ts
@@ -3,7 +3,7 @@ import {prepareMicroscopeTest} from './microscope-test-setup';
 
 export type NoahTestConfig={thyme:number;plantain:number;concentrate:number;shipment:number;ingredient:number;ingredientName:string;wood:number;scrap:number;gold:number};
 export const noahTestConfig:NoahTestConfig={thyme:2,plantain:2,concentrate:1,shipment:4,ingredient:1,ingredientName:'Vörösfenyőgyanta',wood:25,scrap:14,gold:310};
-export type NoahCheckpoint='waiting'|'letter'|'simon'|'forest'|'marsh'|'mix';
+export type NoahCheckpoint='waiting'|'letter'|'simon'|'forest'|'marsh'|'root'|'mix';
 export type NoahTestState={herbsPicked:Record<string,number>;sentDay:number;mixtureMade:boolean;endSeen:boolean;letter:boolean;simonAsked:boolean;upgraded:boolean;complete:boolean;concentrate:number;ingredient:number;rootDefeated:boolean;ingredientGathered:boolean};
 export const noahLetter=`Sam!
 
@@ -27,11 +27,12 @@ export function prepareNoahTest(source:Snapshot,config:NoahTestConfig,checkpoint
  snapshot.clearing.wood=Math.max(snapshot.clearing.wood,config.wood);
  snapshot.travel.research.materials.scrap=Math.max(snapshot.travel.research.materials.scrap,config.scrap);
  snapshot.economy.gold=Math.max(snapshot.economy.gold,config.gold);
- const state:NoahTestState={herbsPicked:{},sentDay:snapshot.clock.day-(checkpoint==='waiting'?0:3),mixtureMade:false,endSeen:false,letter:checkpoint!=='letter'&&checkpoint!=='waiting',simonAsked:checkpoint==='forest'||checkpoint==='marsh'||checkpoint==='mix',upgraded:checkpoint==='forest'||checkpoint==='marsh'||checkpoint==='mix',complete:false,concentrate:checkpoint==='letter'||checkpoint==='waiting'?0:config.shipment,ingredient:checkpoint==='mix'?config.ingredient:0,rootDefeated:checkpoint==='mix',ingredientGathered:checkpoint==='mix'};
+ const state:NoahTestState={herbsPicked:{},sentDay:snapshot.clock.day-(checkpoint==='waiting'?0:3),mixtureMade:false,endSeen:false,letter:checkpoint!=='letter'&&checkpoint!=='waiting',simonAsked:checkpoint==='forest'||checkpoint==='marsh'||checkpoint==='root'||checkpoint==='mix',upgraded:checkpoint==='forest'||checkpoint==='marsh'||checkpoint==='root'||checkpoint==='mix',complete:false,concentrate:checkpoint==='letter'||checkpoint==='waiting'?0:config.shipment,ingredient:checkpoint==='mix'?config.ingredient:0,rootDefeated:checkpoint==='mix',ingredientGathered:checkpoint==='mix'};
  if(checkpoint==='simon')snapshot.player={x:320,y:4635};
  if(checkpoint==='mix')snapshot.player={x:337,y:3415};
  if(checkpoint==='forest')snapshot.player={x:-444,y:1140};
  if(checkpoint==='marsh')snapshot.player={x:-430,y:2000};
+ if(checkpoint==='root'){snapshot.player={x:-665,y:2450};snapshot.clock.elapsed=390;}
  return {snapshot,state};
 }
 // Existing saves already south of the barrier can leave; new entries are blocked.

diff --git a/src/dialogue-theme.css b/src/dialogue-theme.css
@@ -60,3 +60,11 @@
 .story-chapter{border-bottom:1px solid #bda46a55;padding:14px 0}.story-chapter summary{cursor:pointer;font:18px var(--control-font);color:var(--window-title)}#dialogue .story-chapter p{white-space:pre-line;font:16px/1.8 var(--reading-font);margin-top:18px}
 .noah-lab-canvas{display:block;width:100%;height:auto;max-height:65dvh;object-fit:contain;border:1px solid #bda46a;border-radius:4px;image-rendering:pixelated;touch-action:none}.noah-lab-canvas:focus{outline:1px solid #d4be7c;outline-offset:2px}#dialogue .noah-lab-controls{font:13px var(--control-font);margin:0 0 12px;color:#d7d5b6}
 #app #dialogue:has(.noah-lab-canvas){width:min(900px,calc(100vw - 32px))}.noah-lab-canvas{width:min(100%,calc(60dvh * 700 / 430));max-height:none;object-fit:fill;margin:0 auto}
+
+/* The controllable extraction activity fills the viewport; reading windows stay compact. */
+#app #dialogue[data-presentation="noah-lab"]{width:100vw;max-width:100vw;height:100dvh;max-height:100dvh;inset:0;margin:0;padding:12px 20px;box-sizing:border-box;border-radius:0;overflow:auto}
+#app #dialogue[data-presentation="noah-lab"] #dialogue-label,#app #dialogue[data-presentation="noah-lab"] #dialogue-text:empty{display:none}
+#app #dialogue[data-presentation="noah-lab"] #dialogue-title{font-size:20px;margin:0 0 8px}
+#app #dialogue[data-presentation="noah-lab"] .noah-lab-controls{margin:0 0 6px}
+#app #dialogue[data-presentation="noah-lab"] .noah-lab-canvas{width:min(100%,calc((100dvh - 150px) * 700 / 430));max-height:none;height:auto}
+#app #dialogue[data-presentation="noah-lab"] #dialogue-close{margin:8px 0 0}

diff --git a/src/root-strikes.ts b/src/root-strikes.ts
@@ -1,0 +1,12 @@
+// Individual ground strikes sweep across the locked-in direction, leaving time to dodge.
+export const ROOT_STRIKE_COUNT=7;
+export const ROOT_STRIKE_INTERVAL=.23;
+export const ROOT_STRIKE_DURATION=ROOT_STRIKE_COUNT*ROOT_STRIKE_INTERVAL+.2;
+export function rootStrike(index:number,aim:{x:number;y:number},origin:{x:number;y:number}){
+ const angle=Math.atan2(aim.y,aim.x)+(index-3)*.19,reach=165+index%3*22;
+ return {x:origin.x+Math.cos(angle)*reach,y:origin.y+Math.sin(angle)*reach};
+}
+export function rootStrikePose(elapsed:number,index:number){
+ const t=(elapsed-index*ROOT_STRIKE_INTERVAL)/ROOT_STRIKE_INTERVAL;
+ return {active:t>=0&&t<1,impact:t>=.6,drop:Math.max(0,Math.min(1,(t-.25)/.35)),dust:Math.max(0,1-Math.max(0,t-.6)*.26)};
+}

diff --git a/src/root-strikes.test.ts b/src/root-strikes.test.ts
@@ -1,0 +1,3 @@
+import {it,expect} from 'vitest';
+import {rootStrike,rootStrikePose,ROOT_STRIKE_COUNT,ROOT_STRIKE_INTERVAL} from './root-strikes';
+it('strikes separately, in the captured direction and well beyond the body',()=>{for(let i=0;i<ROOT_STRIKE_COUNT;i++){const tip=rootStrike(i,{x:0,y:-1},{x:0,y:0});expect(tip.y).toBeLessThan(-130);expect(Math.hypot(tip.x,tip.y)).toBeGreaterThanOrEqual(165);const time=(i+.8)*ROOT_STRIKE_INTERVAL;expect(rootStrikePose(time,i).active).toBe(true);expect(rootStrikePose(time,i).impact).toBe(true);if(i+1<ROOT_STRIKE_COUNT)expect(rootStrikePose(time,i+1).active).toBe(false);}});

diff --git a/src/food.ts b/src/food.ts
@@ -1,6 +1,6 @@
 import type {Snapshot} from './storage';
 import {createForest} from './forest';
-export const berryFoods=['strawberry','honeyberry','blueberry'] as const;
+export const berryFoods=['strawberry','honeyberry','blueberry','pea'] as const;
 export type BerryFood=typeof berryFoods[number];
 export function consumeBerry(state:Snapshot,crop:BerryFood):Snapshot|null{
  const health=state.travel.forest?.health??5;if(health>=5||state.produce[crop]<1)return null;

diff --git a/docs/jatekterv.md b/docs/jatekterv.md
@@ -909,3 +909,15 @@ Amikor Sam először közel sétál valóban sikertelen terméskötődést mutat
 - **A normál történetbe való későbbi beépítéskor a történetvégi jelzést el kell mozgatni a mintaküldés utánról a friss történeti végpontra.** A teszt ezt már a kezelt minta megfigyelése után mutatja, az elfogadott szöveg változtatása nélkül. A normál játék még nem kapta meg a teljes új fejezetet.
 
 - A fejlesztői Noah-tesztben a „Következő reggel” gomb csak a memóriabeli példány napját lépteti; a háromnapos válaszvárás így valós reggeli átmenetekkel is tesztelhető. A mocsár külön kezdőpontból is indítható.
+
+### Noah-teszt finomításai — 2026. október 29.
+- Noah válaszát a postaláda meglévő sárga zászlója jelzi, ugyanúgy, mint a rendeléseket; külön borítékjelzés nincs.
+- A megerősített túrabot termékkártyája az aranyösszeg alatt, a többi termék között szerepel.
+- A mocsárban barnás buborékok nőnek és kipukkadnak, iszapfröccsenéssel és vízgyűrűkkel. Első megközelítéskor „Mocsár” című rövid Sam-gondolat jelenik meg.
+- Erdei vereségnél a hazajutás szövege kiegészül: „Talán legközelebb vihetnék magammal némi élelmet…” A borsó is ehető, a bogyósokhoz hasonlóan egy darab egy szívet tölt; teljes életerőnél nincs Eszem gomb.
+- A gyökércsomó külön-külön lendíti és csapja földbe messzire nyúló gyökereit. A becsapódási helyeken por száll fel, a sebzés ezekhez a csapásokhoz kötött.
+- A déli erdőben hét kisebb ellenfél és a gyökércsomó vár; a mocsár kőszigeteire nem helyezünk ellenfelet. Nagy, lila, világos pettyes gombák díszítik, melyek éjszaka derengenek.
+- Gyantaszedéskor az első vizsgálati ablakból az Összegyűjtöm gomb közvetlenül visszavisz a játékba; második megerősítő szöveg nincs.
+- A kivonatkészítő irányítható közelije teljes képernyős. A részletesebb főzési minijáték és az új erdei ügyességi feladat szabályai még tervezésre várnak, nincsenek véglegesítve.
+- A Történet archívumába további fejezetet csak a felhasználóval történő tartalmi egyeztetés után teszünk. A mostani kérés nem engedély minden párbeszéd automatikus archiválására.
+- A gyökércsomó és a világító gombák kipróbálásához külön esti kezdőpont is van a memóriabeli Noah-tesztben.

diff --git a/docs/ablakok-es-gombok.md b/docs/ablakok-es-gombok.md
@@ -2,7 +2,7 @@
 
 Ez az összes jelenlegi és jövőbeli játékablak alapja. Ne ablakonként másold a stílust: a közös értékeket a `src/dialogue-theme.css` adja, a menük elrendezését a `src/menu.css` kezeli.
 
-- Felület: sötétzöld átmenet (`#2b4332f7` → `#172e23fc`), 1 px meleg aranyszegély (`#bda46a`), 5 px sarok, puha sötét árnyék. Háttérként az elsötétített, megállított játék látszik; csak a Főmenü és annak alnézetei teljes képernyősek.
+- Felület: sötétzöld átmenet (`#2b4332f7` → `#172e23fc`), 1 px meleg aranyszegély (`#bda46a`), 5 px sarok, puha sötét árnyék. Háttérként az elsötétített, megállított játék látszik; a Főmenü és annak alnézetei, valamint a felhasználó kérésére az irányítható kivonatkészítő tevékenység teljes képernyős.
 - Hosszabb, olvasásra szánt szöveg: `system-ui, sans-serif`. Ablakcímek, menüpontok és gombok: `Trebuchet MS, Segoe UI, sans-serif`. A Silent Pollen képi logó külön marad.
 - Gomb: sötétzöld átmenet, aranyszegély, finom belső keret, világos krémszínű felirat. Rámutatás világosít, billentyűzetes fókusz jól látható. A meglévő elrendezést és méretet ne írd felül általános gombszabállyal.
 - Inaktív gomb: látványosan szürkített, tényleges `disabled` állapot. Aktív fülek és tárgykártyák saját állapotjelzése megmarad. Törlés megerősítése megtarthatja a figyelmeztető vöröses színt.

diff --git a/CHANGELOG.md b/CHANGELOG.md
@@ -2,6 +2,8 @@
 
 ## Változások a 0.1.0 óta — külön jóváhagyott verzióemelés nélkül
 
+- Egységes postaládazászló és javított bolti botkártya; ehető borsó és élelemre utaló vereségszöveg.
+- Noah-teszt: bugyogó mocsár, külön csapó gyökerek porral, további ellenfelek, éjszaka derengő lila gombák; teljes képernyős kivonatkészítő.
 - Noah-teszt: háromnapos válaszidő, olvasatlanlevél-jelzés és időrendi történetarchívum; megőrzött cél-előzmények és a Simon-beszélgetéshez kötött botfejlesztés.
 - Kanyargós déli erdő a három ismert gyógynövénnyel és ugrálós mocsári átkeléssel; irányítható, billentyűzettel és egérrel kezelhető kivonatkészítő-minijáték.
 
